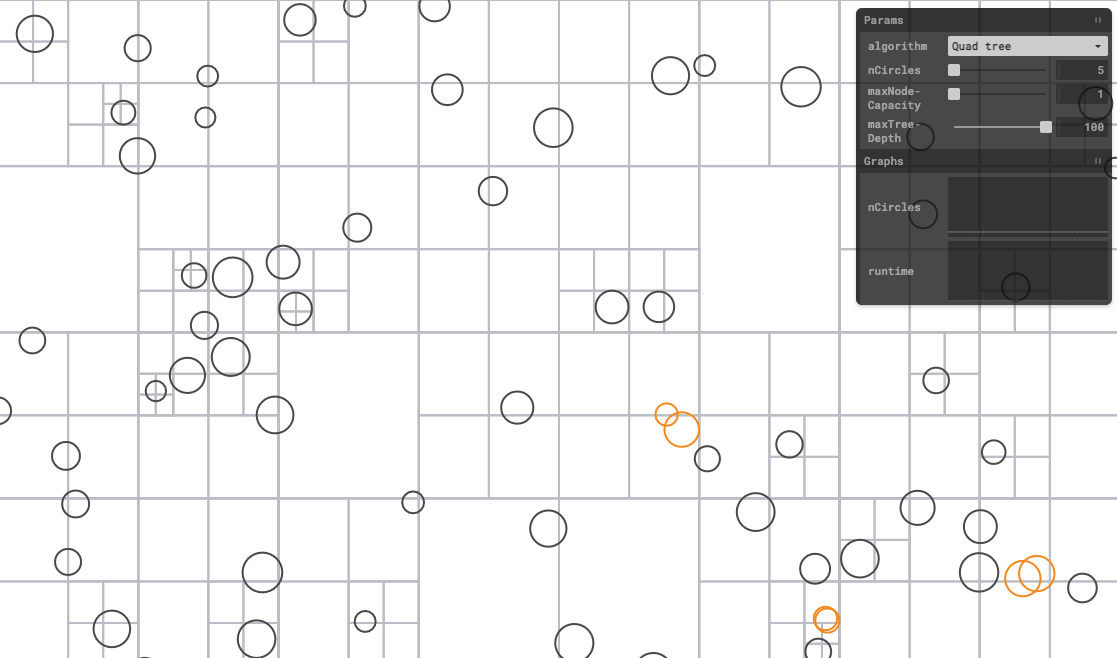
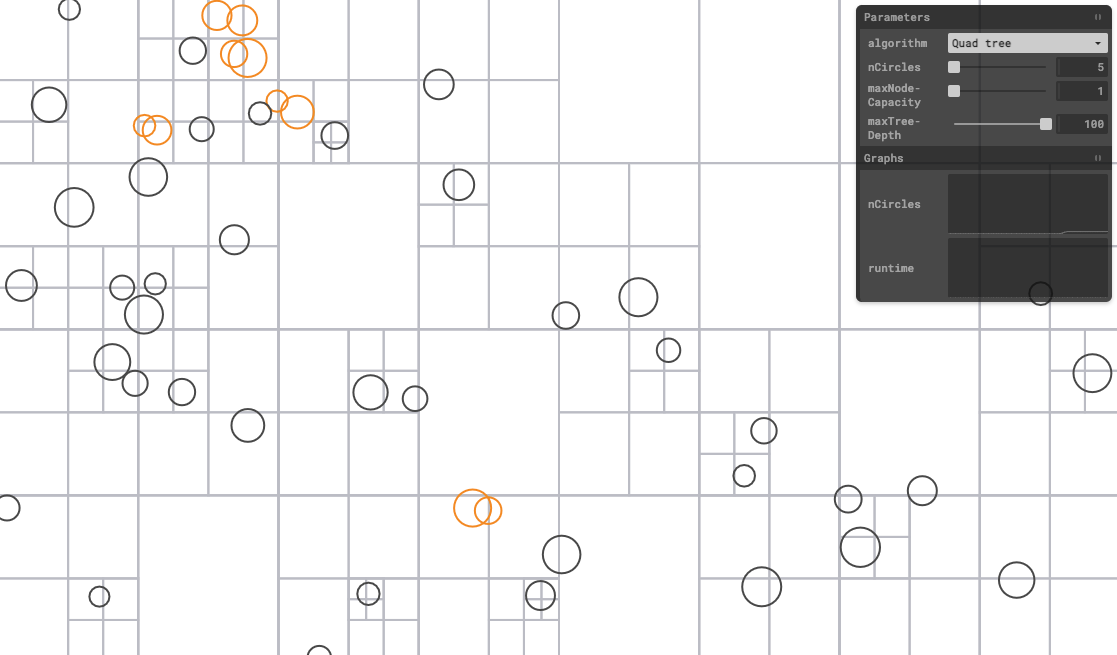
add drawTree param to panel, update preview image

diff --git a/main.js b/main.js
@@ -17,6 +17,7 @@ class App extends AbstractApp {
     this._initPane();
     this.circles = [];
     this.mouseDownPosition = null;
+    this.drawTree = true;
     this.algorithm = ALGORITHM.QUAD_TREE;
     this.quadTree = new QuadTree(this._getBounds());
     this._initCircles();
@@ -72,6 +73,14 @@ class App extends AbstractApp {
         return this.app.runtime;
       }
 
+      set drawTree (x) {
+        this.app.drawTree = x;
+      }
+
+      get drawTree () {
+        return this.app.drawTree;
+      }
+
     }
 
     this.params = new Params(this);
@@ -80,6 +89,7 @@ class App extends AbstractApp {
     this.params.maxNodeCapacity = 1;
     this.params.maxTreeDepth = 100;
     this.params.runtime = 0;
+    this.params.drawTree = true;
   }
 
   _initPane () {
@@ -111,6 +121,8 @@ class App extends AbstractApp {
       min: 1,
       max: 100
     });
+    paramsFolder.addInput(this.params, 'drawTree');
+
     graphsFolder.addMonitor(this.params, 'nCircles', {
       view: 'graph',
       min: 1,
@@ -221,9 +233,11 @@ class App extends AbstractApp {
   }
 
   render () {
-    const { ctx, circles, quadTree } = this;
+    const { ctx, circles, quadTree, drawTree } = this;
     super.render();
-    quadTree.render(ctx);
+    if (drawTree) {
+      quadTree.render(ctx);
+    }
     circles.forEach(circle => circle.render(ctx))
   }
 }
